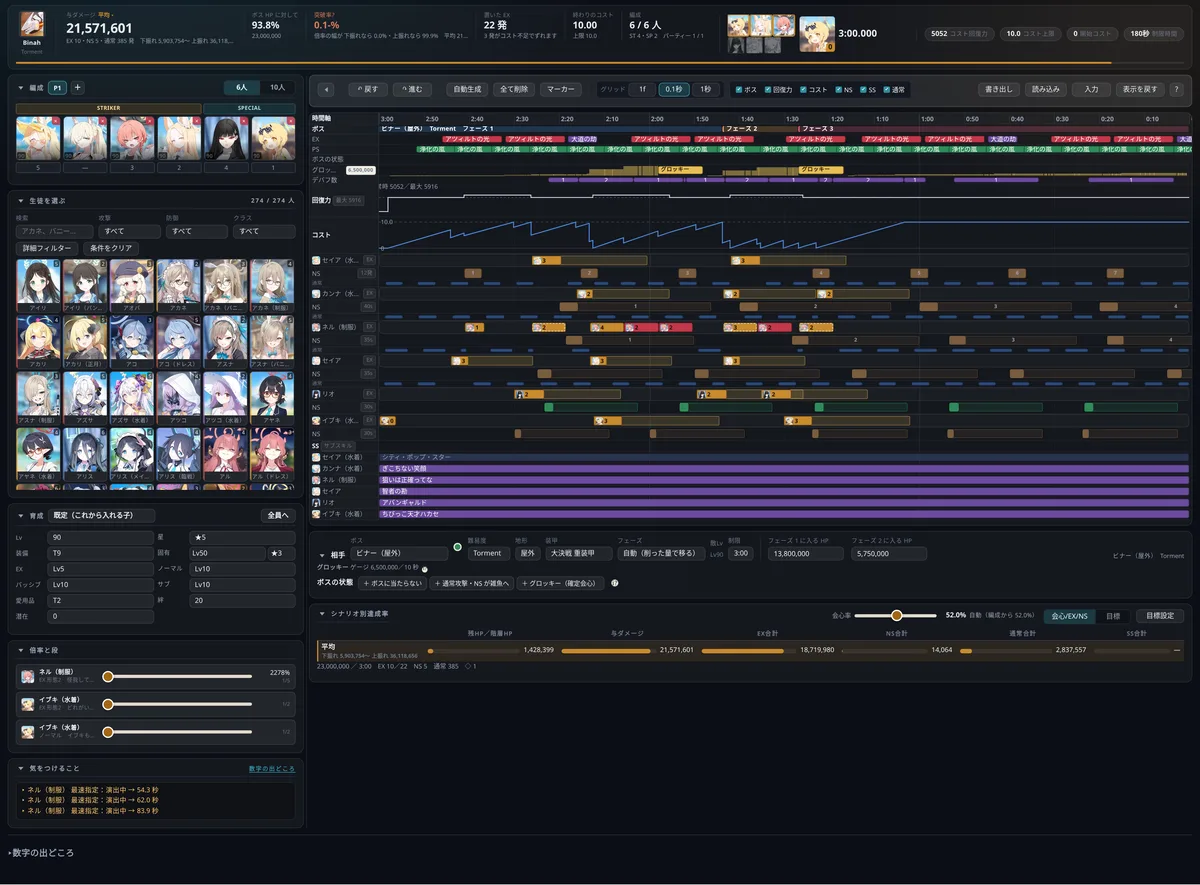
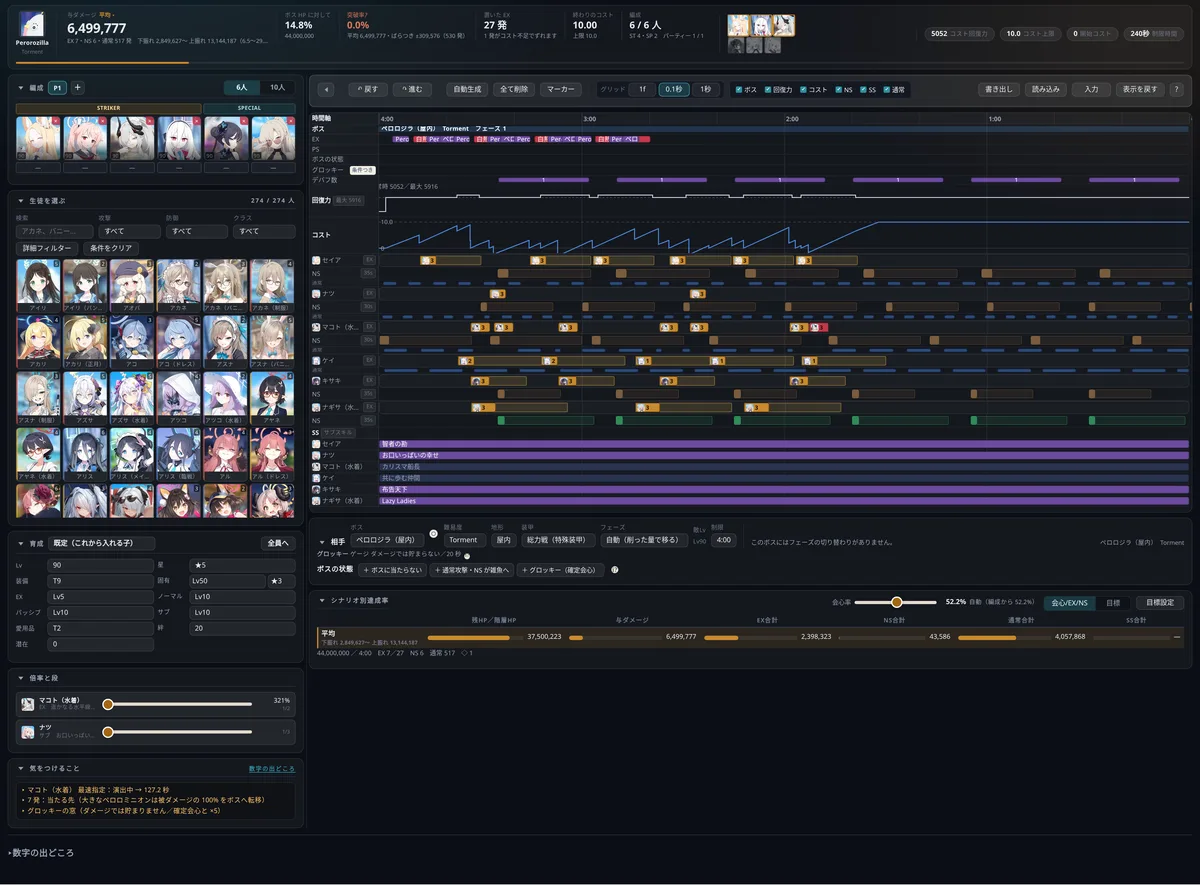
tl: 出すボスをペロロジラだけにする（通ったボスから戻す）
先生の指示「エディタの選択肢、ペロロジラ以外なくしちゃっていいや、ペロロジラ
詰めよう／他のボスは下限クリアし次第、順次追加していく形で」。

- bossui.js の BOSS_OK が白名簿。下限（幅の中 90% ／ 平均±5%以内 60% ／
  討伐秒の差 15 秒）を通したボスをここへ足すだけで出せる
- **データは 27 体ぶん入ったまま。**答え合わせの道具は ?all=1 で全部出す
  （verify.py / pcount.py / errchk.py / real4.py / recon3.py を直した）
- 参考画像は屋内ペロロジラ（a68El3B6QRc、nktt）で撮り直し。
  ペロロジラにはフェーズの切り替わりが無いので、説明の 2 文からフェーズを外した

回帰: 読めない 2/60、成立 11/11、点 133 ／幅の中 36%

Claude-Session: https://claude.ai/code/session_01MPBvoyruoKM3PxAZ5eS1qk

diff --git a/tl/index.html b/tl/index.html
@@ -9,7 +9,7 @@
 <link rel="icon" href="../favicon.svg" type="image/svg+xml">
 <!-- 埋め込みカード。**画像は絶対 URL でしか指定できない**ので、
      ドメインを変えたらここも直すこと（トップページの `<head>` と同じ事情）。
-     絵は道具そのものの画面（`images/tl-editor.webp`、1200x972） -->
+     絵は道具そのものの画面（`images/tl-editor.webp`、1200x940） -->
 <meta property="og:type" content="website">
 <meta property="og:site_name" content="AronaBot">
 <meta property="og:locale" content="ja_JP">
@@ -18,7 +18,7 @@
 <meta property="og:description" content="ボスの動きの上に EX を並べて、いつ撃てるか・どこまで削れるかを確かめます。AronaBot を入れたサーバーの管理者だけが使えます。">
 <meta property="og:image" content="https://arona-bot.com/images/tl-editor.webp">
 <meta property="og:image:width" content="1200">
-<meta property="og:image:height" content="972">
+<meta property="og:image:height" content="940">
 <meta property="og:image:alt" content="総力戦の TL エディタ — ボスのフェーズの帯の上に EX が並んでいる画面">
 <meta name="twitter:card" content="summary_large_image">
 <meta name="twitter:title" content="総力戦の TL エディタ">
@@ -216,19 +216,19 @@
     <figure class="shot">
       <a class="zoom" href="../images/tlg-rows.webp"><img src="../images/tlg-rows.webp"
         alt="「入力」で開く行の表。1 行が EX 1 発で、生徒・指定のしかた・時刻・渡す相手が並んでいる"
-        loading="lazy" width="1200" height="412"></a>
+        loading="lazy" width="1200" height="430"></a>
     </figure>
   </div>
 
   <!-- ===== ⑤ タイムラインの読み方 ===== -->
   <div class="panel">
     <div class="panel-h"><h2>タイムラインの読み方</h2></div>
-    <p class="lead">上の段は<b>ボスの側</b>です。フェーズの切り替わり、ボスの EX と PS、
+    <p class="lead">上の段は<b>ボスの側</b>です。ボスの EX と PS、
       グロッキーゲージの溜まり、こちらのデバフの数。その下に<b>コスト回復力</b>と<b>コストの山</b>が続きます。
       <button type="button" class="qm" data-hint="コストの山は、溜まって撃って落ちる形がそのまま出ます。上限に張り付いている間はそれ以上増えません。回復力の段は、コスト回復力のバフが乗っている区間です。"></button></p>
     <figure class="shot">
       <a class="zoom" href="../images/tlg-band.webp"><img src="../images/tlg-band.webp"
-        alt="タイムラインの上の帯。ボスのフェーズ、ボスの EX と PS、グロッキー、デバフ数、コスト回復力、コストの山が縦に並んでいる"
+        alt="タイムラインの上の帯。ボスの段、ボスの EX と PS、グロッキー、デバフ数、コスト回復力、コストの山が縦に並んでいる"
         loading="lazy" width="1200" height="194"></a>
     </figure>
     <p class="lead" style="margin-top:22px">下の段は<b>生徒ごとに 3 本</b>——
@@ -238,7 +238,7 @@
     <figure class="shot">
       <a class="zoom" href="../images/tlg-lanes.webp"><img src="../images/tlg-lanes.webp"
         alt="生徒ごとの段。1 人につき EX・NS・通常攻撃の 3 本が並び、いちばん下にサブスキルの帯が続いている"
-        loading="lazy" width="1200" height="367"></a>
+        loading="lazy" width="1200" height="349"></a>
     </figure>
   </div>
 
@@ -261,7 +261,7 @@
   <!-- ===== ⑦ 相手とボスの状態 ===== -->
   <div class="panel">
     <div class="panel-h"><h2>相手と、ボスの状態</h2></div>
-    <p class="lead">盤の下で<b>ボス・難易度・地形・装甲</b>を選びます。フェーズに入る HP は編集でき、
+    <p class="lead">盤の下で<b>ボス・難易度・地形・装甲</b>を選びます。
       ボス名の隣の丸は<b>この道具をそのボスの実際の動画と突き合わせたかどうか</b>です。
       <button type="button" class="qm" data-hint="塗った緑＝実際の動画と突き合わせて合っているボス。黄色い輪＝一部だけ合っているボス。灰色の輪＝まだ突き合わせていないボス。丸を押すと、そのボスの状況が言葉で出ます。"></button></p>
     <p class="lead"><b>「ボスの状態」は自分で置きます。</b>押すとその区間の帯が盤に乗り、端をドラッグして長さを決めます。
@@ -269,7 +269,7 @@
       <button type="button" class="qm" data-hint="「ボスに当たらない」は、雑魚処理や移動でボスが盤に居ない区間です。その間の EX・NS・通常攻撃はボスの HP から引きません。ケセドは 152 秒のうち 121 秒がこれで、置かないと与ダメージが実測の 1.4 倍近くに出ます。「通常攻撃・NS が雑魚へ」はボスは居るが撃つ先が雑魚のとき、「グロッキー（確定会心）」は時刻が計算で解けないボス用です。"></button></p>
     <figure class="shot">
       <a class="zoom" href="../images/tlg-boss.webp"><img src="../images/tlg-boss.webp"
-        alt="相手の欄。ボス・難易度・地形・装甲・フェーズの選択と、ボスの状態を置くボタンが並んでいる"
+        alt="相手の欄。ボス・難易度・地形・装甲の選択と、ボスの状態を置くボタンが並んでいる"
         loading="lazy" width="1200" height="100"></a>
     </figure>
     <p class="lead" style="margin-top:22px">動かす前から決まっている数字は、上の帯のいちばん右にまとまっています。

diff --git a/tools/tl/index.html b/tools/tl/index.html
@@ -1923,8 +1923,8 @@ body.rz.row, body.rz.row * { cursor:row-resize !important; }
 <!-- 画面の JS は tools/tl/js/ の ES モジュールに割ってある（2026-09-03）。
      束ね役は入れない。**ブラウザがそのまま読む**ので、置き方は静的ファイルのまま。
      割り方と依存の向きは tl-work/split.py と js/main.js を見る -->
-<script type="importmap">{"imports":{"./js/alt.js":"./js/alt.js?v=33d2ae9a","./js/boss.js":"./js/boss.js?v=d90f4dd2","./js/bossui.js":"./js/bossui.js?v=32476f0a","./js/buff.js":"./js/buff.js?v=1a719b6f","./js/carry.js":"./js/carry.js?v=39c8c153","./js/chart.js":"./js/chart.js?v=4c5df3cf","./js/clear.js":"./js/clear.js?v=4aef2402","./js/core.js":"./js/core.js?v=7b965051","./js/dmg.js":"./js/dmg.js?v=85bc049c","./js/draw.js":"./js/draw.js?v=e80d3b74","./js/engine.js":"./js/engine.js?v=463b2dda","./js/ep.js":"./js/ep.js?v=c55510b1","./js/import-ui.js":"./js/import-ui.js?v=3f9456e1","./js/io.js":"./js/io.js?v=2099bec6","./js/kpi.js":"./js/kpi.js?v=ad1c2164","./js/lanes.js":"./js/lanes.js?v=96c0f033","./js/left.js":"./js/left.js?v=5d7f9d6a","./js/main.js":"./js/main.js?v=9cd41efb","./js/na.js":"./js/na.js?v=c9afd193","./js/ns.js":"./js/ns.js?v=c8b20bd6","./js/ord.js":"./js/ord.js?v=0e563a85","./js/parse-apply.js":"./js/parse-apply.js?v=59f0e37e","./js/parse-text.js":"./js/parse-text.js?v=839aa01f","./js/parse-tl.js":"./js/parse-tl.js?v=5ff5e9a1","./js/passive.js":"./js/passive.js?v=79dba8c7","./js/pool.js":"./js/pool.js?v=44aab1e4","./js/rate.js":"./js/rate.js?v=53ce0712","./js/rows.js":"./js/rows.js?v=ffcf37e0","./js/scen.js":"./js/scen.js?v=4919dd8c","./js/stats.js":"./js/stats.js?v=44d4da92","./js/target.js":"./js/target.js?v=04a8bc14","./js/tip.js":"./js/tip.js?v=c71bea37","./js/undo.js":"./js/undo.js?v=f49e7b87","./js/useedit.js":"./js/useedit.js?v=efbcbf25","./js/uses.js":"./js/uses.js?v=8147f455","./js/util.js":"./js/util.js?v=2fab8a83","./js/wire-boss.js":"./js/wire-boss.js?v=2cb5c359","./js/wire-build.js":"./js/wire-build.js?v=157802f6","./js/wire-fold.js":"./js/wire-fold.js?v=4e0a048a","./js/wire-mouse.js":"./js/wire-mouse.js?v=ada8ab6c","./js/wire-party.js":"./js/wire-party.js?v=cc2e7c52","./js/wire-picker.js":"./js/wire-picker.js?v=698cee19","./js/wire-rows.js":"./js/wire-rows.js?v=89ebe775","./js/wire-size.js":"./js/wire-size.js?v=1fed688e","./js/wire-use.js":"./js/wire-use.js?v=9d352c6f","./js/zoom.js":"./js/zoom.js?v=cdff4f8b"}}</script>
-<script type="module" src="js/main.js?v=9cd41efb"></script>
+<script type="importmap">{"imports":{"./js/alt.js":"./js/alt.js?v=33d2ae9a","./js/boss.js":"./js/boss.js?v=d90f4dd2","./js/bossui.js":"./js/bossui.js?v=bd557a32","./js/buff.js":"./js/buff.js?v=1a719b6f","./js/carry.js":"./js/carry.js?v=39c8c153","./js/chart.js":"./js/chart.js?v=4c5df3cf","./js/clear.js":"./js/clear.js?v=4aef2402","./js/core.js":"./js/core.js?v=7b965051","./js/dmg.js":"./js/dmg.js?v=85bc049c","./js/draw.js":"./js/draw.js?v=e80d3b74","./js/engine.js":"./js/engine.js?v=463b2dda","./js/ep.js":"./js/ep.js?v=c55510b1","./js/import-ui.js":"./js/import-ui.js?v=3f9456e1","./js/io.js":"./js/io.js?v=2099bec6","./js/kpi.js":"./js/kpi.js?v=ad1c2164","./js/lanes.js":"./js/lanes.js?v=96c0f033","./js/left.js":"./js/left.js?v=5d7f9d6a","./js/main.js":"./js/main.js?v=30704ed6","./js/na.js":"./js/na.js?v=c9afd193","./js/ns.js":"./js/ns.js?v=c8b20bd6","./js/ord.js":"./js/ord.js?v=0e563a85","./js/parse-apply.js":"./js/parse-apply.js?v=59f0e37e","./js/parse-text.js":"./js/parse-text.js?v=839aa01f","./js/parse-tl.js":"./js/parse-tl.js?v=5ff5e9a1","./js/passive.js":"./js/passive.js?v=79dba8c7","./js/pool.js":"./js/pool.js?v=44aab1e4","./js/rate.js":"./js/rate.js?v=53ce0712","./js/rows.js":"./js/rows.js?v=ffcf37e0","./js/scen.js":"./js/scen.js?v=4919dd8c","./js/stats.js":"./js/stats.js?v=44d4da92","./js/target.js":"./js/target.js?v=04a8bc14","./js/tip.js":"./js/tip.js?v=c71bea37","./js/undo.js":"./js/undo.js?v=f49e7b87","./js/useedit.js":"./js/useedit.js?v=efbcbf25","./js/uses.js":"./js/uses.js?v=8147f455","./js/util.js":"./js/util.js?v=2fab8a83","./js/wire-boss.js":"./js/wire-boss.js?v=2cb5c359","./js/wire-build.js":"./js/wire-build.js?v=157802f6","./js/wire-fold.js":"./js/wire-fold.js?v=4e0a048a","./js/wire-mouse.js":"./js/wire-mouse.js?v=ada8ab6c","./js/wire-party.js":"./js/wire-party.js?v=cc2e7c52","./js/wire-picker.js":"./js/wire-picker.js?v=698cee19","./js/wire-rows.js":"./js/wire-rows.js?v=89ebe775","./js/wire-size.js":"./js/wire-size.js?v=1fed688e","./js/wire-use.js":"./js/wire-use.js?v=9d352c6f","./js/zoom.js":"./js/zoom.js?v=cdff4f8b"}}</script>
+<script type="module" src="js/main.js?v=30704ed6"></script>
 
 </body>
 </html>

diff --git a/tools/tl/js/bossui.js b/tools/tl/js/bossui.js
@@ -5,9 +5,24 @@ import { ARMJA, boss, diff, ggNoDmg } from './boss.js';
 import { draw } from './draw.js';
 import { n0 } from './rate.js';
 
+// **選べるのは、下限を通したボスだけ**（2026-09-03 の先生の指示
+// 「エディタの選択肢、ペロロジラ以外なくしちゃっていいや、ペロロジラ詰めよう／
+// 他のボスは下限クリアし次第、順次追加していく形で」）。
+// 下限は 幅の中 90% ／ 平均±5%以内 60% ／ 討伐秒の差 15 秒（LOOP.md「進め方」）。
+// **データは全部入ったまま**なので、通ったボスをここへ足すだけで出せる。
+// 答え合わせの道具は `?all=1` を付けて全部のボスを出す
+export var BOSS_OK = ['ペロロジラ'];
+export function bossShown(n) {
+  if (/[?&]all=1/.test(location.search)) { return true; }
+  for (var q = 0; q < BOSS_OK.length; q++) {
+    if (String(n).indexOf(BOSS_OK[q]) === 0) { return true; }
+  }
+  return false;
+}
 export function fillBoss() {
   var h = '', i;
   for (i = 0; i < B.bosses.length; i++) {
+    if (!bossShown(B.bosses[i].n)) { continue; }
     h += '<option value="' + i + '">' + esc(B.bosses[i].n) + '</option>';
   }
   $('i-boss').innerHTML = h; $('i-boss').value = String(st.bi);

diff --git a/tools/tl/js/main.js b/tools/tl/js/main.js
@@ -29,7 +29,7 @@ import { restore, snapshot } from './io.js';
 import { parseTL } from './parse-tl.js';
 import { applyTL, findStudent } from './parse-apply.js';
 import { drawCrew, drawParty, drawPicker, fillBuild, fillFilters } from './left.js';
-import { fillBoss } from './bossui.js';
+import { bossShown, fillBoss } from './bossui.js';
 import { wireBoss } from './wire-boss.js';
 import { wireFold } from './wire-fold.js';
 import { wireTip } from './tip.js';
@@ -42,7 +42,12 @@ import { wireRows } from './wire-rows.js';
 import { wireMouse } from './wire-mouse.js';
 
 // ------------------------------------------------------------ つなぐ
-st.di = tormentIdx(B.bosses[0]);
+// **最初に出すのは、選べるボスの 1 体目**（2026-09-03。ペロロジラだけに絞ったので、
+// 既定のままだと一覧に無いボスが選ばれた状態で開く）
+for (var _bi = 0; _bi < B.bosses.length; _bi++) {
+  if (bossShown(B.bosses[_bi].n)) { st.bi = _bi; break; }
+}
+st.di = tormentIdx(B.bosses[st.bi]);
 // **段の取捨選択は最初の draw より先に読む**（2026-09-03）
 loadLanes(); drawLanes();
 fillBoss(); fillFilters(); fillBuild(); drawParty(); drawCrew(); drawPicker(); draw();

diff --git a/index.html b/index.html
@@ -131,7 +131,7 @@
         <figure class="main-feat-shot">
           <a class="zoom" href="images/tl-editor.webp"><img src="images/tl-editor.webp"
             alt="総力戦の TL エディタ。ボスのフェーズの帯の上に EX スキルが並び、下にコストとダメージの曲線が出ている画面"
-            loading="lazy" width="1200" height="972"></a>
+            loading="lazy" width="1200" height="940"></a>
         </figure>
         <p class="para"><a class="cta" href="https://tl.arona-bot.com/">TL エディタを開く</a>
           <a class="sub-link" href="tl/">使い方を見る</a></p>

diff --git a/scripts/shot-tl-guide.py b/scripts/shot-tl-guide.py
@@ -32,11 +32,11 @@ URL = os.environ.get('TL_URL', 'http://127.0.0.1:8777/tools/tl/')
 OUT = os.path.join(ROOT, 'images')
 TMP = tempfile.gettempdir()
 
-# **撮る画面はビナー（大決戦・屋外・貫通・Torment）で固定する。**
-# 実測と突き合わせが済んでいる編成で、フェーズが 3 つ・グロッキーが 2 回入るので、
-# 帯の説明にちょうどいい（`tl-work/cases.json` の 1 本目）。
-CASE_BOSS = 'ビナー'
-CASE_IX = 0
+# **撮る画面は屋内ペロロジラ Torment で固定する**（2026-09-03。先生の指示で
+# エディタがペロロジラしか出さなくなったので、ビナーでは撮れない）。
+# `cases.json` の `a68El3B6QRc`（nktt、40,033,921）を使う。
+CASE_BOSS = 'ペロロジラ'
+CASE_VID = 'a68El3B6QRc'
 
 # タイムラインの段（`#side` の子の並び）。**行の名前で探す。**
 # 段が増減しても添字を書き直さずに済む。名前が重なる段（生徒名は EX・NS・SS で
@@ -316,7 +316,7 @@ def main(argv):
         return 1
 
     cases = json.load(io.open(CASES, encoding='utf-8'))
-    case_ = cases[CASE_BOSS][CASE_IX]
+    case_ = [x for x in cases[CASE_BOSS] if x['vid'] == CASE_VID][0]
     tl = case_['text']
     made = []
     with sync_playwright() as pw:

diff --git a/scripts/shot-tl-editor.py b/scripts/shot-tl-editor.py
@@ -20,7 +20,9 @@ OUT = os.path.join(ROOT, 'images', 'tl-editor.webp')
 def main():
     from playwright.sync_api import sync_playwright
     c = json.load(io.open(CASES, encoding='utf-8'))
-    tl = (c.get('ビナー') or c.get('ホド'))[0].get('text')
+    # **屋内ペロロジラ**（2026-09-03。エディタがペロロジラしか出さない）
+    _per = [x for x in (c.get('ペロロジラ') or []) if x.get('vid') == 'a68El3B6QRc']
+    tl = (_per or c.get('ビナー'))[0].get('text')
     png = os.path.join(tempfile.gettempdir(), 'tl-editor-shot.png')
     with sync_playwright() as pw:
         b = pw.chromium.launch()
